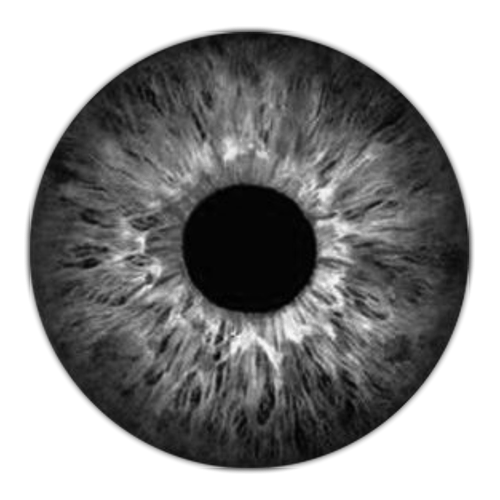
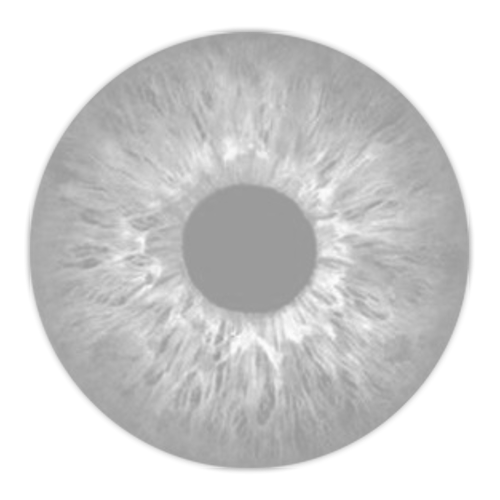
ajustes de filtro

diff --git a/index.html b/index.html
@@ -150,10 +150,10 @@
             </div>
 
             <div class="colors">
-<button class="color" style="background: rgba(49,30,0,0.35) ;" data-color="rgba(49,30,0,0.35)"></button>
-<button class="color" style="background: rgba(0,120,255,0.35) ;" data-color="rgba(0,120,255,0.35)"></button>
-<button class="color" style="background: rgba(0,180,90,0.35) ;" data-color="rgba(0,180,90,0.35)"></button>
-<button class="color" style="background: rgba(180,100,255,0.35) ;" data-color="rgba(180,100,255,0.35)"></button>
+<button class="color" style="background: rgb(49, 30, 0) ;" data-color="rgba(49,30,0,0.35)"></button>
+<button class="color" style="background: rgb(0, 119, 255) ;" data-color="rgba(0,120,255,0.35)"></button>
+<button class="color" style="background: rgb(0, 180, 90) ;" data-color="rgba(0,180,90,0.35)"></button>
+<button class="color" style="background: rgb(180, 100, 255) ;" data-color="rgba(180,100,255,0.35)"></button>
             </div>
         </div>
     </div>

diff --git a/main.js b/main.js
@@ -149,10 +149,10 @@ function drawIrisClipped(lm, irisIdx, eyeIdx, color, side = 'L') {
 
   // ===== SMOOTH =====
   if (side === 'L') {
-    iris = smoothIris(iris, prevIrisL, 0.15);
+    iris = smoothIris(iris, prevIrisL, 0.1);
     prevIrisL = iris;
   } else {
-    iris = smoothIris(iris, prevIrisR, 0.15);
+    iris = smoothIris(iris, prevIrisR, 0.1);
     prevIrisR = iris;
   }
 
@@ -186,14 +186,13 @@ function drawIrisClipped(lm, irisIdx, eyeIdx, color, side = 'L') {
 
   // ===== COLOR OPCIONAL ENCIMA =====
   ctx.globalCompositeOperation = 'source-atop';
-  ctx.globalAlpha = 0.35;
+  ctx.globalAlpha = 0.7;
 
   ctx.beginPath();
   ctx.arc(iris.cx, iris.cy, iris.r, 0, Math.PI * 2);
   ctx.fillStyle = color;
   ctx.fill();
 
-  ctx.globalAlpha = 1;
   ctx.globalCompositeOperation = 'source-over';
 
   ctx.restore();
